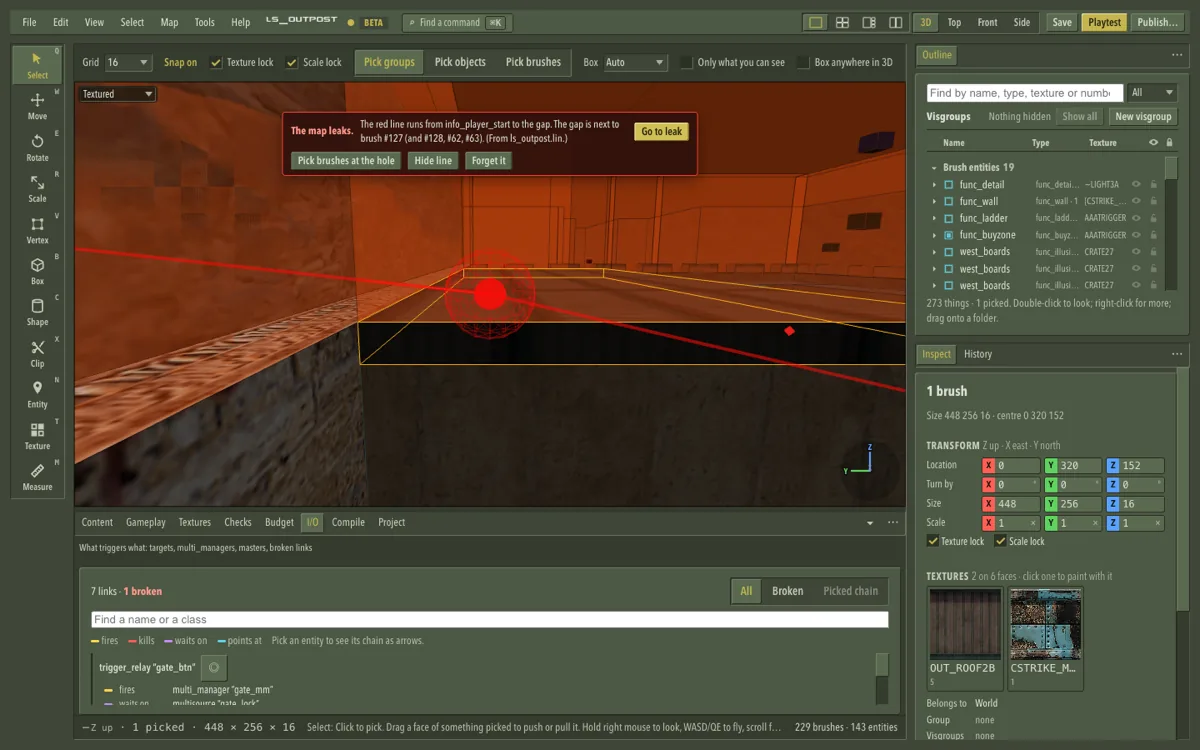
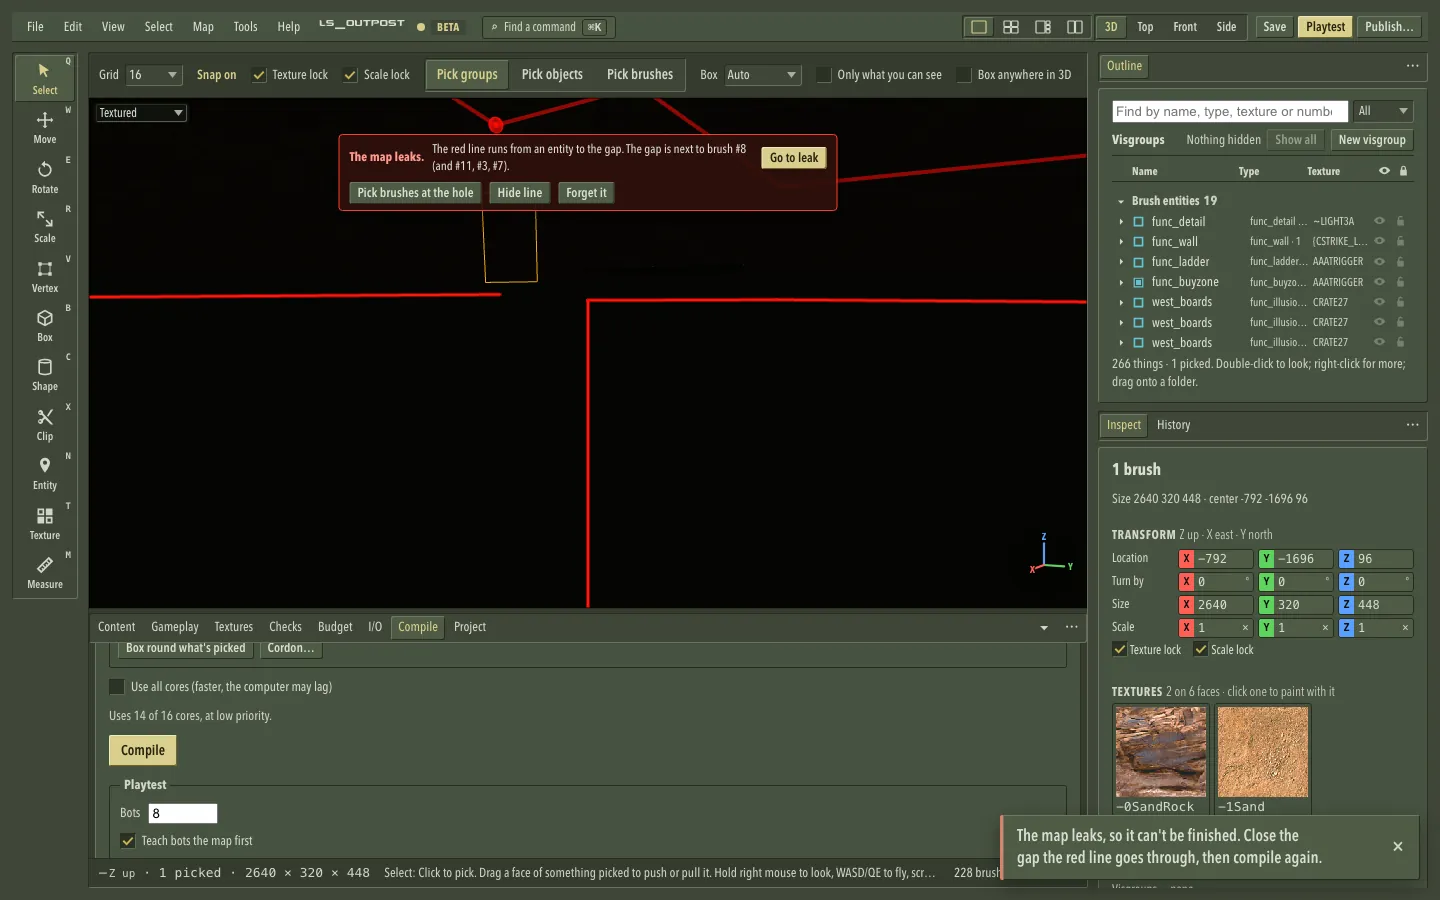
Site: every picture reviewed; retaken where it looked off (face sheet, I/O and leak on ls_outpost as PNG/WebP instead of the old JPGs, Studio timeline, compile, Plugin Studio without the toast, Publish, Community with seven cards newest first, Demos with three bot rounds recorded on a test server); 

diff --git a/site/docs.html b/site/docs.html
@@ -27,6 +27,7 @@
 {"@context": "https://schema.org", "@type": "BreadcrumbList", "itemListElement": [{"@type": "ListItem", "position": 1, "name": "Loner-Strike", "item": "https://lonerstrike.com/"}, {"@type": "ListItem", "position": 2, "name": "Docs", "item": "https://lonerstrike.com/docs"}]}
 </script>
 <link rel="stylesheet" href="fonts/barlow.css">
+<link rel="stylesheet" href="viewer.css">
 
 <!-- Plausible (self-hosted) -->
 <script defer data-domain="lonerstrike.com" src="https://analytics.nanoshrine.com/js/script.file-downloads.hash.outbound-links.pageview-props.tagged-events.js"></script>
@@ -805,14 +806,14 @@ footer a { color: var(--dim); }
   <p>The <b>Textures</b> panel shows the map's WADs (add more in <b>Map properties</b>). Click to choose; double-click or <span class="kbd">Shift</span> <span class="kbd">T</span> paints what's picked. <b>Texture lock</b> keeps textures in place when brushes move.</p>
   <p>With faces picked, <b>Inspect</b> shows the face sheet: shift, scale and turn, <b>Fit</b> and <b>Justify</b>, <b>Align</b> to the world or to the face (good for slopes), <b>Pick up</b> a face's texture and <b>Recent textures</b>. With the <b>Texture</b> tool in the 3D view, right-click a face to paint the current texture on it, <span class="kbd">Alt</span>-right-click to paint it and carry the picked face's alignment round the corner (like Hammer), and <span class="kbd">Alt</span>-click to pick a texture up.</p>
   <figure class="shot">
-    <picture><source srcset="img/1.0/editor-facesheet.webp" type="image/webp"><img src="img/1.0/editor-facesheet.jpg" alt="The map editor with a wall face picked: the face sheet in Inspect shows its texture, size, alignment, shift, scale and turn" width="1200" height="750" loading="lazy"></picture>
+    <picture><source srcset="img/1.0/editor-facesheet.webp" type="image/webp"><img src="img/1.0/editor-facesheet.png" alt="The map editor with the Texture tool on ls_outpost: a sandstone wall face picked, its stretch and turn handles in 3D, and the face sheet in Inspect with its texture, size, alignment, shift, scale and turn" width="1440" height="900" loading="lazy"></picture>
     <figcaption>The face sheet: a picked face's texture and how it lies.</figcaption>
   </figure>
   <h2 id="editor-entities">Entities</h2>
   <p><b>Inspect</b> shows a form for the picked entity, with help on every key; pick several to change them together. <code>target</code> → <code>targetname</code> links are drawn in 3D. A model, sprite or sound key has <b>Choose…</b>, ↗ (show it in the <a href="#content-browser">Content Browser</a>) and <b>Use selected</b>. For a mod's own entities, add its FGD in <b>Map properties › Entity definitions</b>.</p>
   <p>The <b>I/O</b> panel (<b>What triggers what</b>) lists every link (targets, <code>multi_manager</code>s, masters and kill targets) and draws them as arrows. Show <b>All</b>, only <b>Broken</b> ones (a target no entity is named), or the <b>Picked chain</b>; the search box finds a name or a class. Click a row to pick it, double-click to look at it.</p>
   <figure class="shot">
-    <picture><source srcset="img/1.0/editor-io.webp" type="image/webp"><img src="img/1.0/editor-io.jpg" alt="The map editor showing a multi_manager's chain as arrows in 3D, with the I/O panel listing its links below" width="1200" height="750" loading="lazy"></picture>
+    <picture><source srcset="img/1.0/editor-io.webp" type="image/webp"><img src="img/1.0/editor-io.png" alt="The map editor on ls_outpost: a button fires a multi_manager that drops the east gate's boards and sounds a siren, its chain as arrows in 3D, the I/O panel listing the links below and the multi_manager's keys in Inspect" width="1440" height="900" loading="lazy"></picture>
     <figcaption>A multi_manager's chain: arrows in 3D, links in the I/O panel.</figcaption>
   </figure>
   <h2 id="content-browser" data-keywords="assets models sprites sounds props content drawer">Content Browser</h2>
@@ -833,7 +834,7 @@ footer a { color: var(--dim); }
   <p><b>Checks</b> finds broken brushes, limits, missing textures, spawns, files or targets, and what a mode still needs. Click a problem to go to it; most have a fix, like <b>Place a CT spawn</b> or <b>Add halflife.wad and cstrike.wad</b>.</p>
   <p id="editor-leaks" data-keywords="leak pointfile hole void">Leaks show when you compile: a red line runs from an entity out to the hole, and a bar says which brush the gap is next to. <b>Go to leak</b> flies along the line and picks that brush; <b>Pick brushes at the hole</b>, <b>Hide line</b> and <b>Forget it</b> are there too. <b>Map › Load pointfile…</b> loads a line (<code>.lin</code> or <code>.pts</code>) from another compile.</p>
   <figure class="shot">
-    <picture><source srcset="img/1.0/editor-leak.webp" type="image/webp"><img src="img/1.0/editor-leak.jpg" alt="The map editor after Go to leak: a red line through a gap in ls_outpost's wall, the brush beside it picked, and the leak bar above" width="1200" height="750" loading="lazy"></picture>
+    <picture><source srcset="img/1.0/editor-leak.webp" type="image/webp"><img src="img/1.0/editor-leak.png" alt="The map editor after a Fast compile of ls_outpost with its sky lid taken out: the red leak line running up to the gap, the brush beside it picked by Go to leak, and the leak bar above" width="1440" height="900" loading="lazy"></picture>
     <figcaption>Go to leak flies to the hole and picks the brush beside it.</figcaption>
   </figure>
   <p>The game won't load a map with missing models or sprites. The <b>Project</b> panel lists every file the map uses, can <b>Copy into the game</b> or <b>Copy next to the project</b>, and <b>Find missing files…</b> searches a folder you pick.</p>
@@ -1407,6 +1408,9 @@ public on_spawn(id)
   <p class="crumb">Watch &amp; inspect</p>
   <h1>Demos</h1>
   <p class="lead">Your demos and your servers' HLTV ones, in one list.</p>
+  <figure class="shot">
+    <picture><source srcset="img/1.0/demos.webp" type="image/webp"><img src="img/1.0/demos.png" alt="Demos: three short bot rounds on de_dust2 in the list with their length, date and size; the first one picked, showing its map, server, length and the players seen, with Watch and Show my path in Replay" width="1440" height="900" loading="lazy"></picture>
+  </figure>
   <ol>
     <li>Sort, filter (<b>All</b>, <b>Recorded in game</b>, <b>HLTV</b>) or search; pick one for who played and where.</li>
     <li><b>Watch</b> it (a server's demo: <b>Copy to my game and watch</b>; with the game open you get the console command). <b>Show my path in Replay</b> draws where you went.</li>
@@ -1420,7 +1424,7 @@ public on_spawn(id)
   <h1>Textures &amp; models</h1>
   <p class="lead">Browse every texture and model in your game. Browsing changes nothing.</p>
   <figure class="shot">
-    <picture><source srcset="img/1.0/models.webp" type="image/webp"><img src="img/1.0/models.png" alt="Textures and models: the AK-47 view model in 3D with its animations and textures listed" width="1440" height="900" loading="lazy"></picture>
+    <picture><source srcset="img/1.0/models-game.webp" type="image/webp"><img src="img/1.0/models-game.png" alt="Textures and models: the AK-47 view model in 3D with its animations and textures listed" width="1440" height="900" loading="lazy"></picture>
   </figure>
   <ul>
     <li><b>Textures</b>: search every WAD, see where a texture comes from and which maps use it, <b>Save as picture…</b>. <b>Make your own…</b> turns a picture into a texture.</li>
@@ -1813,7 +1817,7 @@ lsctl logs        the last 100 console lines</code></pre>
   </ul>
   <p>Others can play and remix it, with your name on it.</p>
   <figure class="shot">
-    <picture><source srcset="img/1.0/publish-mode.webp" type="image/webp"><img src="img/1.0/publish-mode.png" alt="Publishing King of the Hill: the checks (the graph passes, a requirements warning with Open in the Studio), details, the bot rating and maps" width="1000" height="860" loading="lazy"></picture>
+    <picture><source srcset="img/1.0/publish-mode.webp" type="image/webp"><img src="img/1.0/publish-mode.png" alt="Publishing King of the Hill: the checks (the graph passes; what players need), the name, maker and about text, how well bots play it, and the maps it's made for, with Make the package below" width="1440" height="900" loading="lazy"></picture>
     <figcaption>Publishing a mode: the checks come first.</figcaption>
   </figure>
   <h2 id="credits" data-keywords="credit license permission terms author assets">Credits</h2>
@@ -2242,6 +2246,29 @@ args = ["--mcp-stdio"]</code></pre>
 
   show(location.hash, !!location.hash);
 })();
+</script>
+<script src="viewer.js"></script>
+<script>
+  // Every picture opens the big viewer (viewer.js, the same as the home page's): a click, or Enter or
+  // Space on it; Esc closes it and focus comes back here. The arrows step through the page's pictures.
+  (() => {
+    const figs = [...document.querySelectorAll("figure.shot")].filter((f) => f.querySelector("img"));
+    const items = figs.map((f) => {
+      const img = f.querySelector("img");
+      const webp = f.querySelector('source[type="image/webp"]');
+      return { webp: webp ? webp.getAttribute("srcset") : null, src: img.getAttribute("src"), cap: f.querySelector("figcaption")?.textContent.trim() || img.alt };
+    });
+    figs.forEach((f, i) => {
+      const pic = f.querySelector("picture") || f.querySelector("img");
+      const b = document.createElement("button");
+      b.type = "button";
+      b.className = "shot-open";
+      b.setAttribute("aria-label", `Open larger: ${items[i].cap}`);
+      pic.replaceWith(b);
+      b.append(pic);
+      b.addEventListener("click", () => LSViewer.open(items, i, { returnTo: b }));
+    });
+  })();
 </script>
 </body>
 </html>

diff --git a/site/index.html b/site/index.html
@@ -207,6 +207,7 @@
 }
 </script>
 <link rel="stylesheet" href="fonts/barlow.css">
+<link rel="stylesheet" href="viewer.css">
 
 <!-- Plausible (self-hosted) -->
 <script defer data-domain="lonerstrike.com" src="https://analytics.nanoshrine.com/js/script.file-downloads.hash.outbound-links.pageview-props.tagged-events.js"></script>
@@ -468,25 +469,6 @@ html { scroll-padding-top: 72px; }
   .sl-game, .sl-bots, .sl-map { display: none; }
 }
 
-/* the big screenshot viewer */
-.viewer { width: 100vw; height: 100vh; max-width: none; max-height: none; margin: 0; padding: 0; border: 0; background: rgba(20,22,16,.94); color: var(--bone); }
-.viewer::backdrop { background: rgba(20,22,16,.7); }
-.viewer figure { margin: 0; height: 100%; display: grid; grid-template-rows: 1fr auto; place-items: center; padding: 48px 72px 18px; gap: 12px; }
-.viewer img { max-width: 100%; max-height: calc(100vh - 120px); object-fit: contain; box-shadow: 0 20px 60px rgba(0,0,0,.6); border-radius: 3px; }
-.viewer figcaption { color: var(--dim); font-weight: 600; text-align: center; }
-.viewer button { position: absolute; border: 0; background: var(--panel); color: var(--bone); box-shadow: var(--raised); border-radius: 2px; cursor: pointer; font: 700 28px/1 var(--text); }
-.viewer button:hover { color: var(--signal); }
-.viewer .nav { top: 50%; transform: translateY(-50%); width: 48px; height: 64px; }
-.viewer .prev { left: 14px; }
-.viewer .next { right: 14px; }
-.viewer .close { top: 14px; right: 14px; width: 44px; height: 44px; }
-.viewer .count { position: absolute; top: 24px; left: 18px; color: var(--faint); font-weight: 600; font-size: 15px; }
-@media (max-width: 860px) {
-  .viewer figure { padding: 60px 12px 90px; }
-  .viewer .nav { top: auto; bottom: 18px; transform: none; }
-  .viewer .prev { left: calc(50% - 58px); }
-  .viewer .next { right: calc(50% - 58px); }
-}
 
 /* the people behind it */
 .thanks { padding: 56px 0 24px; }
@@ -1119,16 +1101,6 @@ footer { padding-bottom: calc(48px + var(--radio-clear, 0px)); }
     </div>
   </dialog>
 
-  <dialog class="viewer" id="viewer" aria-label="Screenshot">
-    <figure>
-      <img id="viewer-img" alt="">
-      <figcaption id="viewer-cap"></figcaption>
-    </figure>
-    <button class="nav prev" id="prev" aria-label="Previous screenshot">‹</button>
-    <button class="nav next" id="next" aria-label="Next screenshot">›</button>
-    <button class="close" id="close" aria-label="Close">×</button>
-    <span class="count" id="count"></span>
-  </dialog>
 
   <section class="get" id="get">
     <div class="wrap">
@@ -1311,6 +1283,7 @@ footer { padding-bottom: calc(48px + var(--radio-clear, 0px)); }
 </section>
 <button type="button" class="radio-tab" id="radio-tab" aria-label="Open radio" hidden><i></i>Radio</button>
 
+<script src="viewer.js"></script>
 <script>
   // ---- settings -------------------------------------------------------------
   // The public server: its address (ip:port) shows the "Play on our server" block. STATUS
@@ -1701,7 +1674,7 @@ footer { padding-bottom: calc(48px + var(--radio-clear, 0px)); }
       shot("spray", "Spray maker"),
       shot("playercfg", "Crosshair & config, with the crosshair drawn live"),
       shot("people", "Bot people: who the bots are"),
-      shot("models", "Every texture and model in your game"),
+      shot("models-game", "Every texture and model in your game"),
       shot("render-dust2", "Any map, lit like the game"),
     ],
     friends: [
@@ -1720,9 +1693,6 @@ footer { padding-bottom: calc(48px + var(--radio-clear, 0px)); }
   };
   const showDrafts = /[?&]drafts\b/.test(location.search);
   const reduceMotion = matchMedia("(prefers-reduced-motion: reduce)").matches;
-  const viewer = document.getElementById("viewer");
-  const vimg = document.getElementById("viewer-img");
-  let open = null; // the widget the big viewer is showing
 
   const pictureOf = (s, thumb) => {
     if (s.draft && !s.have) {
@@ -1809,7 +1779,6 @@ footer { padding-bottom: calc(48px + var(--radio-clear, 0px)); }
       w.at = (i + n) % n;
       w.render();
       if (focusStrip && !strip.hidden) strip.querySelector('[aria-current="true"]')?.focus({ preventScroll: true });
-      if (open === w) showBig();
     };
     prev.addEventListener("click", () => w.go(w.at - 1, false));
     next.addEventListener("click", () => w.go(w.at + 1, false));
@@ -1841,42 +1810,18 @@ footer { padding-bottom: calc(48px + var(--radio-clear, 0px)); }
       if (stage.dataset.swiped) { delete stage.dataset.swiped; return; }
       const s = w.list()[w.at];
       if (!s || (s.draft && !s.have)) return;
-      open = w;
-      showBig();
-      viewer.showModal();
+      // the big viewer (viewer.js, shared with the docs): this section's shots, kept in step with it
+      const shown = w.list().filter((x) => !x.draft || x.have);
+      LSViewer.open(shown, Math.max(0, shown.indexOf(s)), {
+        returnTo: stage,
+        onStep: (i) => { w.at = w.list().indexOf(shown[i]); w.render(); },
+      });
       window.plausible("Screenshot", { props: { image: (s.webp || s.src).split("/").pop() } });
     });
     w.render();
     return w;
   });
 
-  // the big viewer, over the page, for one section's shots
-  function showBig() {
-    const s = open.list()[open.at];
-    if (!s || (s.draft && !s.have)) return;
-    vimg.src = s.webp || s.src;
-    vimg.alt = s.cap;
-    document.getElementById("viewer-cap").textContent = s.cap;
-    document.getElementById("count").textContent = `${open.at + 1} / ${open.list().length}`;
-  }
-  const step = (d) => { if (open) open.go(open.at + d, false); };
-  document.getElementById("prev").addEventListener("click", () => step(-1));
-  document.getElementById("next").addEventListener("click", () => step(1));
-  document.getElementById("close").addEventListener("click", () => viewer.close());
-  viewer.addEventListener("close", () => { open = null; });
-  viewer.addEventListener("click", (e) => { if (e.target === viewer || e.target.tagName === "FIGURE") viewer.close(); });
-  viewer.addEventListener("keydown", (e) => {
-    if (e.key === "ArrowLeft") step(-1);
-    if (e.key === "ArrowRight") step(1);
-  });
-  let x0 = null;
-  viewer.addEventListener("touchstart", (e) => { x0 = e.touches[0].clientX; }, { passive: true });
-  viewer.addEventListener("touchend", (e) => {
-    if (x0 === null) return;
-    const dx = e.changedTouches[0].clientX - x0;
-    if (Math.abs(dx) > 50) step(dx < 0 ? 1 : -1);
-    x0 = null;
-  });
 
   // The loader fills up once, like Steam connecting in 2004
   // Only whole blocks: the count follows the bar's width (a block is 7 px plus a 3 px gap, inside

diff --git a/site/viewer.js b/site/viewer.js
@@ -1,0 +1,72 @@
+// The big screenshot viewer, shared by the home page's tour and the docs' pictures: one dialog over
+// the page. Esc, × or a click beside the picture closes it and focus goes back to what opened it;
+// the arrow keys, the buttons and a swipe step through the list. The full-size picture (WebP, PNG
+// for older browsers) loads only when it's shown.
+//   LSViewer.open(items, at, { onStep(i), returnTo })   items: [{ webp, src, cap }]
+(() => {
+  let dlg = document.getElementById("viewer");
+  if (!dlg) {
+    dlg = document.createElement("dialog");
+    dlg.className = "viewer";
+    dlg.id = "viewer";
+    dlg.setAttribute("aria-label", "Screenshot");
+    document.body.append(dlg);
+  }
+  dlg.innerHTML =
+    '<figure><picture><source type="image/webp"><img alt=""></picture><figcaption></figcaption></figure>' +
+    '<button type="button" class="nav prev" aria-label="Previous screenshot">‹</button>' +
+    '<button type="button" class="nav next" aria-label="Next screenshot">›</button>' +
+    '<button type="button" class="close" aria-label="Close">×</button><span class="count"></span>';
+  const $ = (s) => dlg.querySelector(s);
+  let list = [], at = 0, back = null, onStep = null;
+  const show = () => {
+    const s = list[at];
+    if (!s) return;
+    const source = $("source");
+    if (s.webp) source.srcset = s.webp;
+    else source.removeAttribute("srcset");
+    $("img").src = s.src || s.webp;
+    $("img").alt = s.cap || "";
+    $("figcaption").textContent = s.cap || "";
+    $(".count").textContent = list.length > 1 ? `${at + 1} / ${list.length}` : "";
+    $(".prev").hidden = $(".next").hidden = list.length < 2;
+  };
+  const step = (d) => {
+    if (list.length < 2) return;
+    at = (at + d + list.length) % list.length;
+    if (onStep) onStep(at);
+    show();
+  };
+  $(".prev").addEventListener("click", () => step(-1));
+  $(".next").addEventListener("click", () => step(1));
+  $(".close").addEventListener("click", () => dlg.close());
+  dlg.addEventListener("click", (e) => { if (e.target === dlg || e.target.tagName === "FIGURE") dlg.close(); });
+  dlg.addEventListener("keydown", (e) => {
+    if (e.key === "ArrowLeft") step(-1);
+    if (e.key === "ArrowRight") step(1);
+  });
+  let x0 = null;
+  dlg.addEventListener("touchstart", (e) => { x0 = e.touches[0].clientX; }, { passive: true });
+  dlg.addEventListener("touchend", (e) => {
+    if (x0 === null) return;
+    const dx = e.changedTouches[0].clientX - x0;
+    if (Math.abs(dx) > 50) step(dx < 0 ? 1 : -1);
+    x0 = null;
+  });
+  dlg.addEventListener("close", () => {
+    const b = back;
+    back = onStep = null;
+    if (b && b.isConnected) b.focus({ preventScroll: true });
+  });
+  window.LSViewer = {
+    open(items, i, opts = {}) {
+      list = items;
+      at = i;
+      onStep = opts.onStep || null;
+      back = opts.returnTo || document.activeElement;
+      show();
+      if (!dlg.open) dlg.showModal();
+      $(".close").focus();
+    },
+  };
+})();

diff --git a/site/viewer.css b/site/viewer.css
@@ -1,0 +1,25 @@
+/* The big screenshot viewer, shared by the home page's tour and the docs' pictures (viewer.js). */
+.viewer { width: 100vw; height: 100vh; max-width: none; max-height: none; margin: 0; padding: 0; border: 0; background: rgba(20,22,16,.94); color: var(--bone); }
+.viewer::backdrop { background: rgba(20,22,16,.7); }
+.viewer figure { margin: 0; height: 100%; display: grid; grid-template-rows: 1fr auto; place-items: center; padding: 48px 72px 18px; gap: 12px; }
+.viewer picture { display: contents; }
+.viewer img { max-width: 100%; max-height: calc(100vh - 120px); object-fit: contain; box-shadow: 0 20px 60px rgba(0,0,0,.6); border-radius: 3px; }
+.viewer figcaption { color: var(--dim); font-weight: 600; text-align: center; max-width: 72ch; }
+.viewer button { position: absolute; border: 0; background: var(--panel); color: var(--bone); box-shadow: var(--raised); border-radius: 2px; cursor: pointer; font: 700 28px/1 var(--text); }
+.viewer button:hover { color: var(--signal); }
+.viewer button:focus-visible { outline: 2px solid var(--signal); outline-offset: 2px; }
+.viewer button[hidden] { display: none; }
+.viewer .nav { top: 50%; transform: translateY(-50%); width: 48px; height: 64px; }
+.viewer .prev { left: 14px; }
+.viewer .next { right: 14px; }
+.viewer .close { top: 14px; right: 14px; width: 44px; height: 44px; }
+.viewer .count { position: absolute; top: 24px; left: 18px; color: var(--faint); font-weight: 600; font-size: 15px; }
+@media (max-width: 860px) {
+  .viewer figure { padding: 60px 12px 90px; }
+  .viewer .nav { top: auto; bottom: 18px; transform: none; }
+  .viewer .prev { left: calc(50% - 58px); }
+  .viewer .next { right: calc(50% - 58px); }
+}
+/* a docs picture that opens the viewer */
+.shot-open { display: block; width: 100%; padding: 0; border: 0; background: none; color: inherit; cursor: zoom-in; border-radius: 3px; }
+.shot-open:focus-visible { outline: 2px solid var(--signal); outline-offset: 3px; }

diff --git a/docs/notes/Site.md b/docs/notes/Site.md
@@ -347,3 +347,19 @@ learn CS 1.6 maps before an editor Playtest.
   only opens the creation's page in Tools › Community; installing stays behind Try it and its confirm. A browser can't
   tell whether the app is installed, so if the page still has focus 1.5 s after the click, the card says "Didn't open?
   Get Loner-Strike (free), then try again." Hidden on phones (`pointer: coarse`).
+**Fifth pass (review of every picture, 2026-11-14):** retaken with fixes in the app where the picture showed a
+real problem: `studio-timeline` (header/lane layout, value labels, "Delete timeline"; X's Timeline tab), `editor-facesheet`,
+`editor-io`, `editor-leak` (were 1200×750 JPGs with the old bars; now PNG/WebP on ls_outpost: a sandstone face with
+the Texture tool, a button → multi_manager → boards and siren chain, a leak from the sky lid taken out),
+`editor-compile` (the Playtest "Bots" box sat at the far edge; "its own licence" → license), `plugins` (the
+"Compiled" toast covered the panel), `publish-mode` (the maps box was unstyled; whole page now), `community`
+(seven cards, newest first, mode cards with a map picture), `demos` (was the empty state: three ~1-minute bot rounds on
+de_dust2 recorded with HLTV on a throwaway server clone, Sim/DEMOREC, kept in `SiteShots/site-demos` and put in the
+clone only for the shot; the clone's other demos set aside meanwhile), `models` removed (the user chose
+`models-game`). App fixes found this way: Zoom to selection with only a face picked frames the face (it framed the
+whole map); the Inspect size line says "center"; Demos no longer lists HLTV's own slot as a player (the HLTV
+userinfo has `*hltv`); the Play page's mode settings give a long choice room (was cut: "Whoever has i").
+Docs pictures open in the home page's viewer (site/viewer.js + viewer.css, shared; Enter/Space, Esc, focus back).
+**Still for the draft build** (the dev server can't run them): the map simulator report (`health`, no picture in the
+docs yet: the section shows none), Replay (none yet), the Studio debugger, and the main app's `mode-settings`
+(fix above, needs a retake), `crashes`, `roles-*` and the home page's `app-*` gallery.
